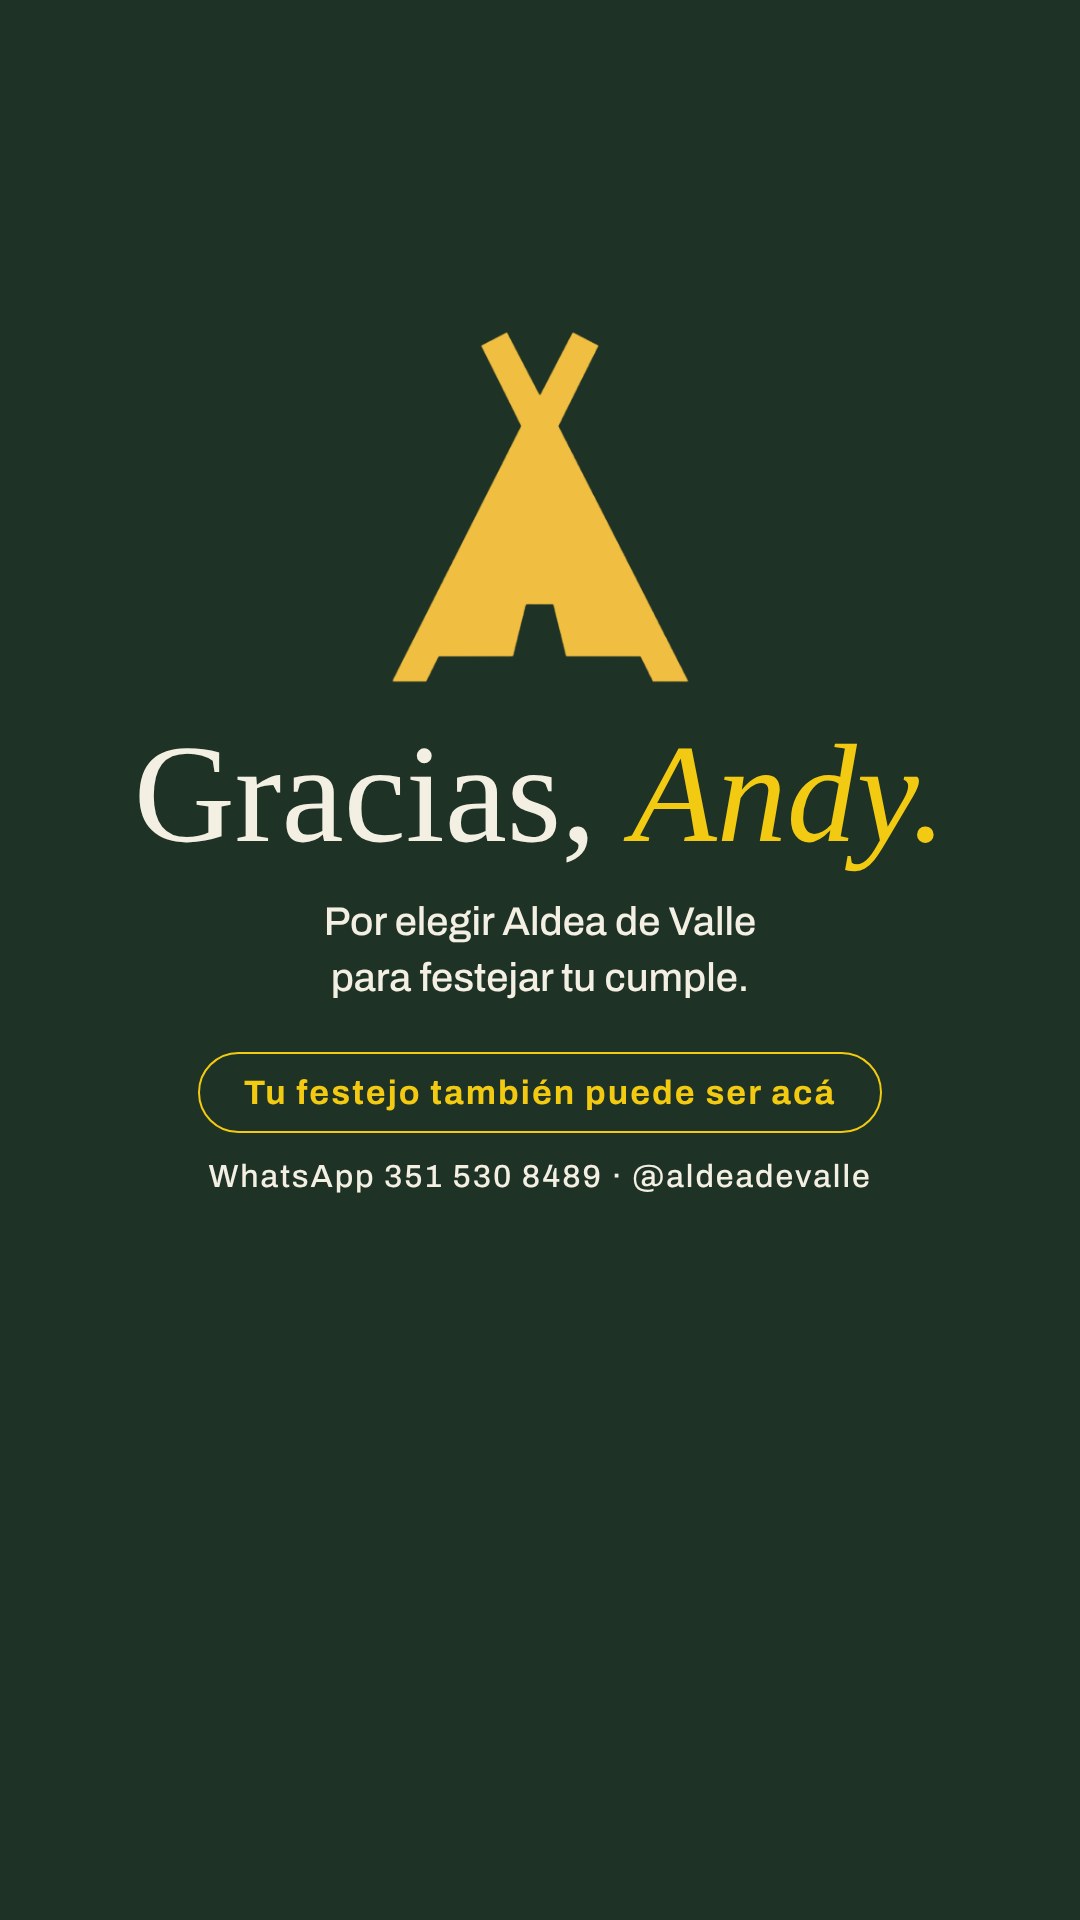
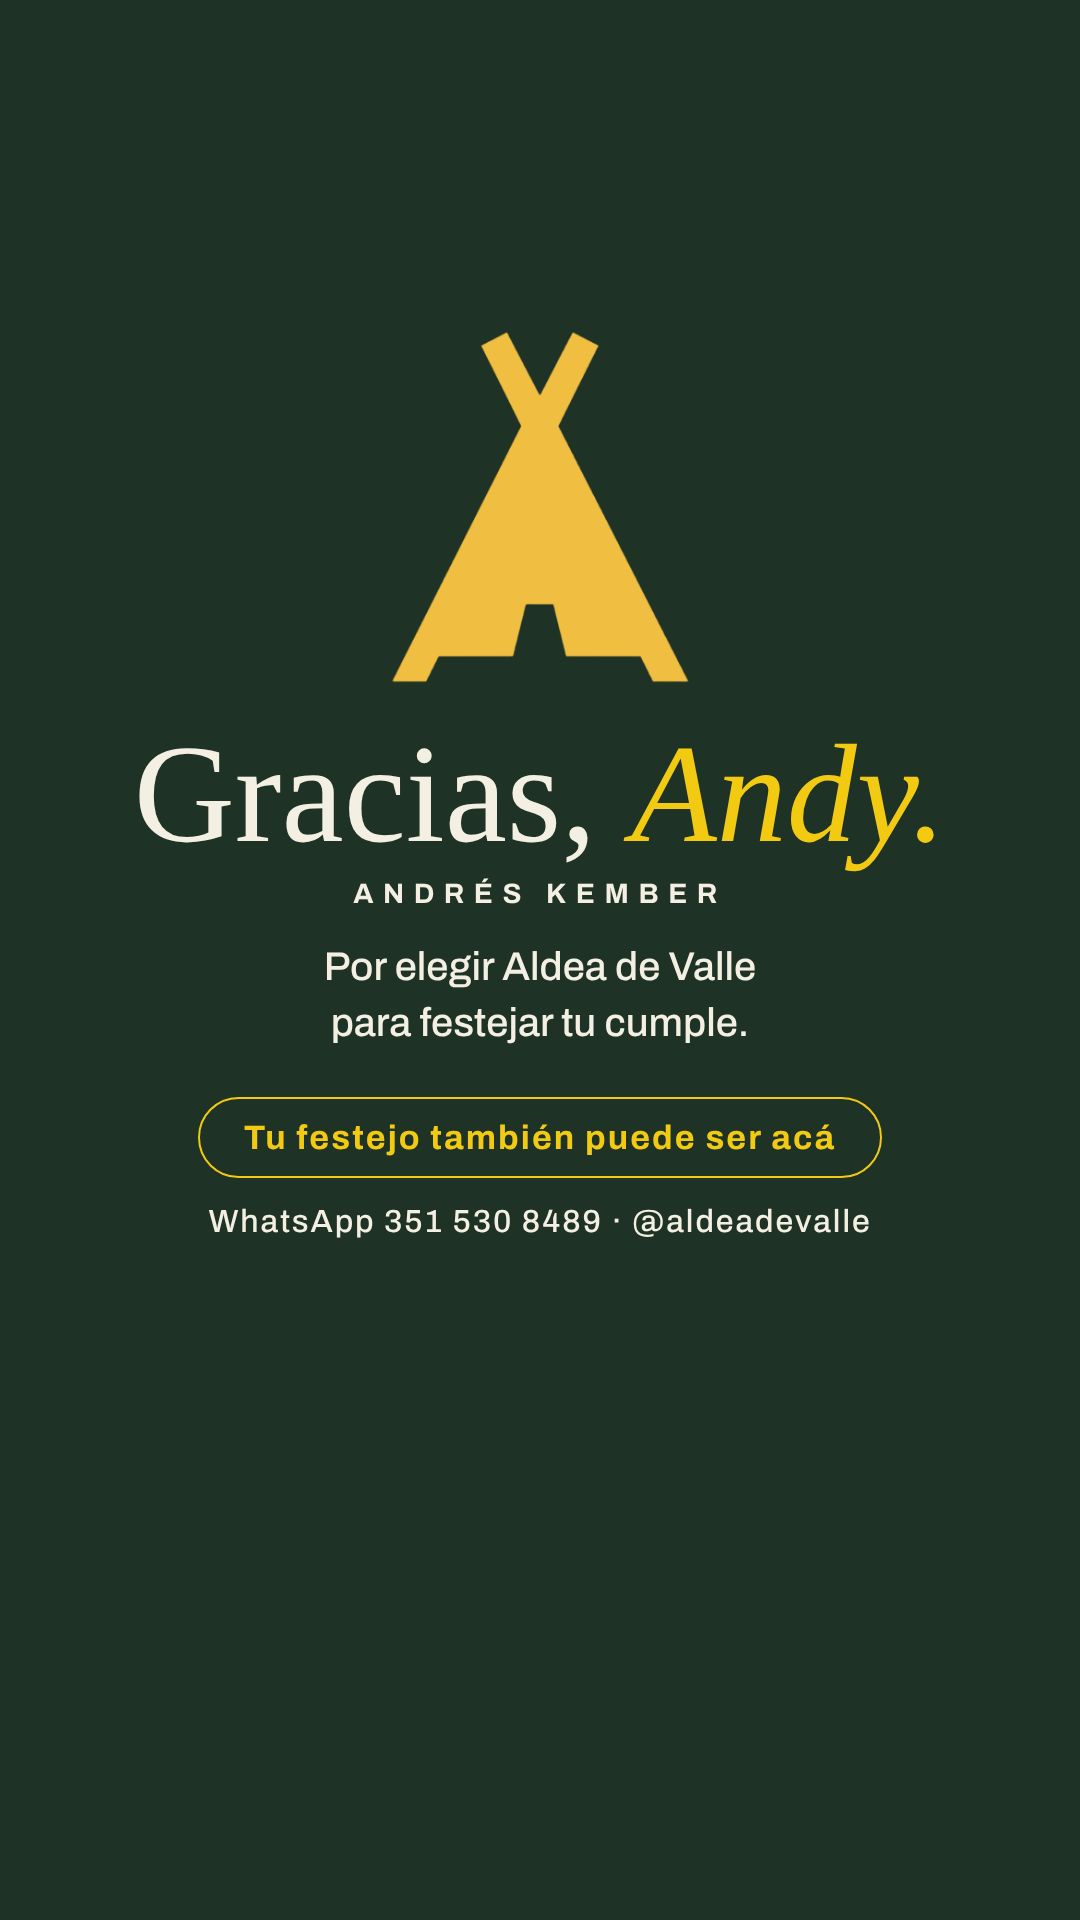
Historia Andy: agregar nombre Andrés Kember
Claude-Session: https://claude.ai/code/session_01D68H1w8hk4JQL1WEhpnoh9

Changed region(s): [[0.1833, 0.4375, 0.825, 0.6562]]

diff --git a/flyers/andy/textos.html b/flyers/andy/textos.html
@@ -12,12 +12,14 @@ body{margin:0;background:transparent}
   <div style="position:absolute;top:300px;width:100%;text-align:center;color:#fff" class="som">
     <div style="font:700 30px Arch;letter-spacing:.32em;color:#F2CA11">ESTO NOS DEJÓ EL CUMPLE DE</div>
     <div style="font:400 italic 190px/1 Serif;margin-top:6px">Andy</div>
+    <div style="font:700 28px Arch;letter-spacing:.34em;margin-top:8px">ANDRÉS KEMBER</div>
   </div></div>
 <div class="capa" id="medio"><div class="arr"></div>
   <div style="position:absolute;top:300px;width:100%;text-align:center;color:#fff;font:400 110px/1 Serif" class="som">Guitarra, amigos<br><i style="color:#F2CA11">y folclore.</i></div></div>
 <div class="capa" id="cierre" style="background:#1E3226;display:flex;flex-direction:column;align-items:center;padding-top:330px;color:#F4EFE3;text-align:center">
   <img src="logo-aldea.png" style="width:300px">
   <div style="font:400 140px/1 Serif;margin-top:40px">Gracias, <i style="color:#F2CA11">Andy.</i></div>
+  <div style="font:700 28px Arch;letter-spacing:.34em;margin-top:14px;color:#F4EFE3">ANDRÉS KEMBER</div>
   <div style="font:500 40px/1.4 Arch;margin-top:30px;max-width:840px">Por elegir Aldea de Valle<br>para festejar tu cumple.</div>
   <div style="margin-top:46px;border:2px solid #F2CA11;border-radius:999px;padding:20px 44px;font:700 34px Arch;letter-spacing:.06em;color:#F2CA11">Tu festejo también puede ser acá</div>
   <div style="font:500 32px Arch;letter-spacing:.06em;margin-top:26px">WhatsApp 351 530 8489 · @aldeadevalle</div>
